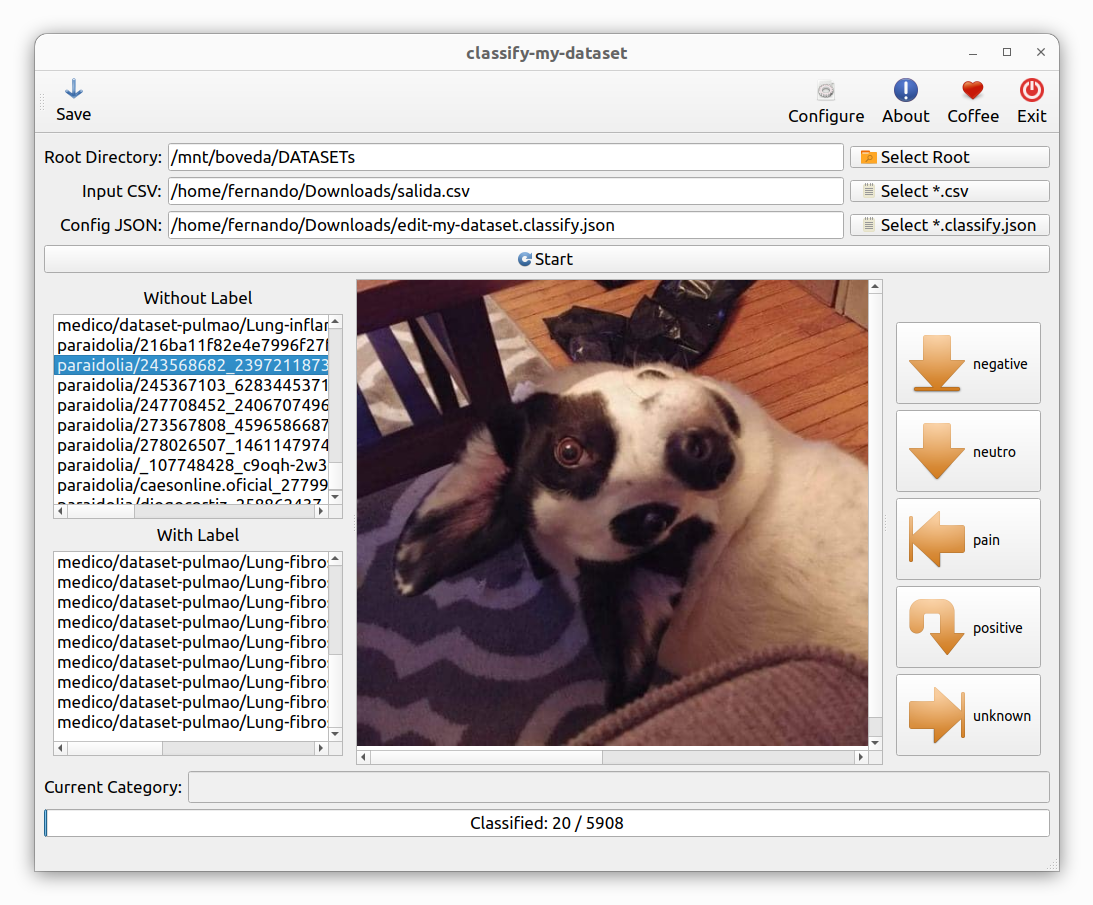
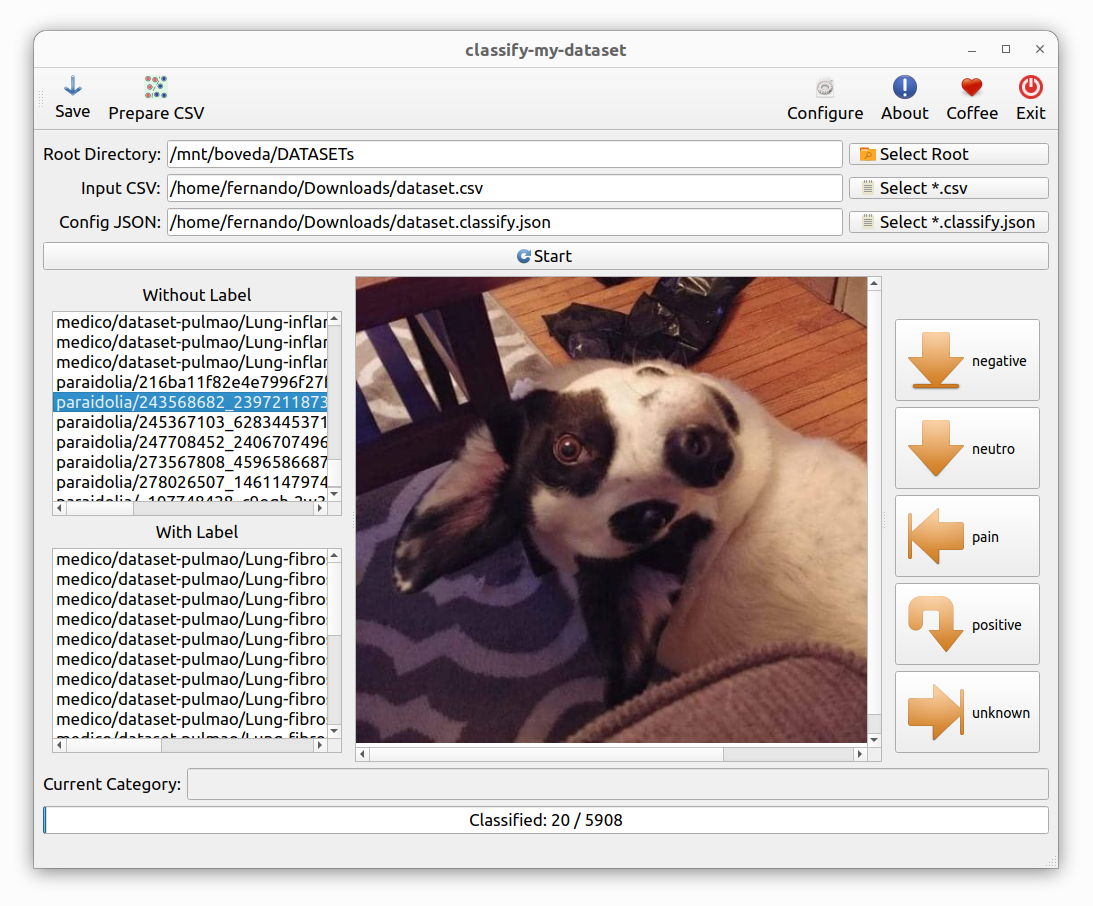
ordenando

diff --git a/src/classify_my_dataset/program.py b/src/classify_my_dataset/program.py
@@ -9,6 +9,7 @@ import subprocess
 from pathlib import Path
 from collections import OrderedDict
 import re
+import pandas as pd
 
 from PyQt5.QtWidgets import (
     QApplication, QMainWindow, QWidget, QVBoxLayout, QHBoxLayout, QSplitter,
@@ -37,6 +38,9 @@ CONFIG_PATH = os.path.join( os.path.expanduser("~"),
 DEFAULT_CONTENT={
     "toolbar_save": "Save",
     "toolbar_save_tooltip": "Save the CSV file with the current data",
+    "toolbar_save_shortcut": "Ctrl+S",
+    "toolbar_prepare": "Prepare CSV",
+    "toolbar_prepare_tooltip": "Open CSV generator",
     "toolbar_configure": "Configure",
     "toolbar_configure_tooltip": "Open the configure Json file of program GUI",
     "toolbar_about": "About",
@@ -64,6 +68,27 @@ DEFAULT_CONTENT={
     "json_label": "Config JSON:",
     "start_button": "Start",
     "start_button_tooltip": "Load dataset and start the classification process",
+    "listview_without_label": "Without Label",
+    "listview_with_label": "With Label",
+    "label_current_category": "Current Category:",
+    "progressbar_classified": "Classified: %v / %m",
+    "dialog_root_dir": "Select Root Directory",
+    "dialog_csv_path": "Select CSV File",
+    "dialog_json_path": "Select Config JSON",
+    "error": "Error",
+    "error_valid_csv": "Please select a valid CSV file!",
+    "error_valid_json": "Please select a valid Config JSON file!",
+    "error_valid_root": "Please select Root Directory!",
+    "error_load_json": "Failed to load JSON config:",
+    "error_load_csv": "Failed to read CSV:",
+    "staturbar_image": "Image:",
+    "warning": "Warning",
+    "warning_load_csv": "No data loaded!",
+    "dialog_save_csv": "Save CSV",
+    "exit": "Exit",
+    "success": "Success",
+    "success_csv": "CSV saved successfully!",
+    "exit_program": "Close the program?",
 }
 
 configure.verify_default_config(CONFIG_PATH,default_content=DEFAULT_CONTENT)
@@ -99,6 +124,9 @@ class MainWindow(QMainWindow):
         self.CurrentImg = None
         self.CurrentList = None
         self.scene = None
+        self.filepath_csv="filepath"
+        self.label_csv="label"
+        self.separator_csv=","
 
         self._create_toolbar()
         self.setup_ui()
@@ -111,21 +139,20 @@ class MainWindow(QMainWindow):
         self.action_save = QAction( QIcon(resource_path("icons","download.svg")),
                                     CONFIG["toolbar_save"], 
                                     self)
-        self.action_save.setShortcut("Ctrl+S")
+        self.action_save.setShortcut(CONFIG["toolbar_save_shortcut"])
         self.action_save.setToolTip(CONFIG["toolbar_save_tooltip"])
         self.action_save.triggered.connect(self.save_csv)
         self.toolbar.addAction(self.action_save)
 
-        #
+        # Prepare
         self.action_prepare_csv = QAction(
             QIcon(resource_path( "icons", "prepare-classification-dataset.svg" )),
-            "Prepare CSV",
+            CONFIG["toolbar_prepare"],
             self
         )
-        self.action_prepare_csv.setToolTip( "Open CSV generator" )
+        self.action_prepare_csv.setToolTip(CONFIG["toolbar_prepare_tooltip"])
         self.action_prepare_csv.triggered.connect( self.open_prepare_csv_window )
         self.toolbar.addAction( self.action_prepare_csv )
-
 
         # Adicionar o espaçador
         self.toolbar_spacer = QWidget()
@@ -259,9 +286,9 @@ class MainWindow(QMainWindow):
         self.list_unlabeled = QListWidget()
         self.list_labeled = QListWidget()
 
-        lbl_un = QLabel("Without Label")
+        lbl_un = QLabel(CONFIG["listview_without_label"])
         lbl_un.setAlignment(Qt.AlignCenter)
-        lbl_la = QLabel("With Label")
+        lbl_la = QLabel(CONFIG["listview_with_label"])
         lbl_la.setAlignment(Qt.AlignCenter)
 
         left_panel.addWidget(lbl_un)
@@ -290,8 +317,8 @@ class MainWindow(QMainWindow):
         # ==================== CURRENT CATEGORY ====================
 
         category_layout = QHBoxLayout()
-
-        self.lbl_current_category = QLabel("Current Category:")
+        
+        self.lbl_current_category = QLabel(CONFIG["label_current_category"])
 
         self.line_current_category = QLineEdit()
         self.line_current_category.setReadOnly(True)
@@ -309,9 +336,9 @@ class MainWindow(QMainWindow):
         main_layout.addLayout(category_layout)
 
         # ==================== PROGRESS BAR ====================
-
+        
         self.progressBar = QProgressBar()
-        self.progressBar.setFormat("Classified: %v / %m")
+        self.progressBar.setFormat(CONFIG["progressbar_classified"])
         main_layout.addWidget(self.progressBar)
 
         # =========================
@@ -386,17 +413,32 @@ class MainWindow(QMainWindow):
         
     # ====================== SELECTORS ======================
     def select_root_dir(self):
-        path = QFileDialog.getExistingDirectory(self, "Select Root Directory")
+        path = QFileDialog.getExistingDirectory(self, 
+                                                CONFIG["dialog_root_dir"])
         if path:
             self.line_dir.setText(path)
 
     def select_csv(self):
-        path, _ = QFileDialog.getOpenFileName(self, "Select CSV File", "", "CSV (*.csv)")
+        dir_path = self.line_dir.text()
+        if not os.path.exists(dir_path):
+            dir_path = ""
+        
+        path, _ = QFileDialog.getOpenFileName(  self, 
+                                                CONFIG["dialog_csv_path"], 
+                                                dir_path, 
+                                                "CSV (*.csv)")
         if path:
             self.line_csv.setText(path)
 
     def select_json(self):
-        path, _ = QFileDialog.getOpenFileName(self, "Select Config JSON", "", "JSON (*.classify.json)")
+        dir_path = self.line_dir.text()
+        if not os.path.exists(dir_path):
+            dir_path = ""
+        
+        path, _ = QFileDialog.getOpenFileName(  self, 
+                                                CONFIG["dialog_json_path"], 
+                                                dir_path, 
+                                                "JSON (*.classify.json)")
         if path:
             self.line_json.setText(path)
 
@@ -407,13 +449,13 @@ class MainWindow(QMainWindow):
         root_dir = self.line_dir.text().strip()
 
         if not csv_path or not os.path.exists(csv_path):
-            QMessageBox.warning(self, "Error", "Please select a valid CSV file!")
+            QMessageBox.warning(self, CONFIG["error"], CONFIG["error_valid_csv"])
             return
         if not json_path or not os.path.exists(json_path):
-            QMessageBox.warning(self, "Error", "Please select a valid Config JSON file!")
+            QMessageBox.warning(self, CONFIG["error"], CONFIG["error_valid_json"])
             return
         if not root_dir or not os.path.exists(root_dir):
-            QMessageBox.warning(self, "Error", "Please select Root Directory!")
+            QMessageBox.warning(self, CONFIG["error"], CONFIG["error_valid_root"])
             return
 
         self.Directory = QDir(root_dir)
@@ -557,18 +599,18 @@ class MainWindow(QMainWindow):
                 self.ButtonPtr.append(button)
 
         except Exception as e:
-
+            msg = CONFIG["error_load_json"]
             QMessageBox.critical(
                 self,
-                "Error",
-                f"Failed to load JSON config:\n{e}"
+                CONFIG["error"],
+                f"{msg}\n{e}"
             )
             
     def load_csv(self, csv_path):
         self.Map.clear()
         try:
-            import pandas as pd
-            df = pd.read_csv(csv_path, sep=",", dtype=str, keep_default_na=False)
+            
+            df = pd.read_csv(csv_path, sep=self.separator_csv, dtype=str, keep_default_na=False)
             df.columns = [col.strip() for col in df.columns]
             filepath_col = df.columns[0]
             label_col = df.columns[1] if len(df.columns) > 1 else "label"
@@ -578,7 +620,8 @@ class MainWindow(QMainWindow):
                 if fn:
                     self.Map[fn] = lbl
         except Exception as e:
-            QMessageBox.critical(self, "Error", f"Failed to read CSV:\n{e}")
+            msg = CONFIG["error_load_csv"]
+            QMessageBox.critical(self, CONFIG["error"], f"{msg}\n{e}")
             
     def populate_lists(self):
         self.list_unlabeled.clear()
@@ -616,8 +659,9 @@ class MainWindow(QMainWindow):
         self.show_image(filename)
     
     def show_image(self, filename):
+        msg = CONFIG["staturbar_image"]
         full_path = self.Directory.filePath(filename)
-        self.statusBar().showMessage(f"Image: {filename}", 4000)
+        self.statusBar().showMessage(f"{msg} {filename}", 4000)
         if self.scene:
             self.scene.clear()
         else:
@@ -761,23 +805,28 @@ class MainWindow(QMainWindow):
 
     def save_csv(self):
         if not self.Map:
-            QMessageBox.warning(self, "Warning", "No data loaded!")
+            QMessageBox.warning(self, 
+                                CONFIG["warning"], 
+                                CONFIG["warning_load_csv"])
             return
         csv_path = self.line_csv.text().strip()
         if not csv_path:
-            csv_path, _ = QFileDialog.getSaveFileName(self, "Save CSV", "", "CSV (*.csv)")
+            csv_path, _ = QFileDialog.getSaveFileName(  self, 
+                                                        CONFIG["dialog_save_csv"], 
+                                                        "", 
+                                                        "CSV (*.csv)")
         if csv_path:
             try:
                 with open(csv_path, "w", encoding="utf-8", newline="") as f:
-                    f.write("filepath,label\n")
+                    f.write(f"{self.filepath_csv}{self.separator_csv}{self.label_csv}\n")
                     for fn, lbl in self.Map.items():
-                        f.write(f"{fn},{lbl}\n")
-                QMessageBox.information(self, "Success", "CSV saved successfully!")
+                        f.write(f"{fn}{self.separator_csv}{lbl}\n")
+                QMessageBox.information(self, CONFIG["success"], CONFIG["success_csv"] )
             except Exception as e:
-                QMessageBox.critical(self, "Error", str(e))
+                QMessageBox.critical(self, CONFIG["error"], str(e))
 
     def closeEvent(self, event):
-        reply = QMessageBox.question(self, "Exit", "Close the program?",
+        reply = QMessageBox.question(self, CONFIG["exit"], CONFIG["exit_program"],
                                      QMessageBox.Yes | QMessageBox.No)
         if reply == QMessageBox.Yes:
             event.accept()
@@ -788,6 +837,7 @@ class MainWindow(QMainWindow):
 def main():
     signal.signal(signal.SIGINT, signal.SIG_DFL)
        
+    icon_path = resource_path("icons", "logo.svg")
     '''
     extras="" # "MimeType=text/vnd.graphviz;"
     
@@ -795,7 +845,8 @@ def main():
     create_desktop_menu()
     create_desktop_file(os.path.join("~",".local","share","applications"), 
                         program_name=about.__program_classify__,
-                        extras=extras)
+                        extras=extras,
+                        icon_path=icon_path)
     
     for n in range(len(sys.argv)):
         if sys.argv[n] == "--autostart":
@@ -804,7 +855,8 @@ def main():
             create_desktop_file(os.path.join("~",".config","autostart"), 
                                 overwrite=True, 
                                 program_name=about.__program_classify__,
-                                extras=extras)
+                                extras=extras,
+                                icon_path=icon_path)
             return
         if sys.argv[n] == "--applications":
             create_desktop_directory(overwrite = True)
@@ -812,7 +864,8 @@ def main():
             create_desktop_file(os.path.join("~",".local","share","applications"), 
                                 overwrite=True, 
                                 program_name=about.__program_classify__,
-                                extras=extras)
+                                extras=extras,
+                                icon_path=icon_path)
             return
     '''
     

diff --git a/src/classify_my_dataset/program_prepare.py b/src/classify_my_dataset/program_prepare.py
@@ -422,7 +422,7 @@ def main():
     create_desktop_directory()    
     create_desktop_menu()
     create_desktop_file(os.path.join("~",".local","share","applications"), 
-                        program_name=about.__program_classify__,
+                        program_name=about.__program_prepare__,
                         extras=extras,
                         icon_path=icon_path)
     
@@ -432,7 +432,7 @@ def main():
             create_desktop_menu(overwrite = True)
             create_desktop_file(os.path.join("~",".config","autostart"), 
                                 overwrite=True, 
-                                program_name=about.__program_classify__,
+                                program_name=about.__program_prepare__,
                                 extras=extras,
                                 icon_path=icon_path)
             return
@@ -441,7 +441,7 @@ def main():
             create_desktop_menu(overwrite = True)
             create_desktop_file(os.path.join("~",".local","share","applications"), 
                                 overwrite=True, 
-                                program_name=about.__program_classify__,
+                                program_name=about.__program_prepare__,
                                 extras=extras,
                                 icon_path=icon_path)
             return
@@ -450,7 +450,7 @@ def main():
     default_dir = sys.argv[1] if len(sys.argv) > 1 else ""
     
     app = QApplication(sys.argv)
-    app.setApplicationName(about.__program_classify__) 
+    app.setApplicationName(about.__program_prepare__) 
     
     window = CSVGeneratorWindow(default_dir)
     window.show()

diff --git a/src/toml_gen.py b/src/toml_gen.py
@@ -45,7 +45,8 @@ license = "GPL-3.0-only WITH Classpath-Exception-2.0 OR BSD-3-Clause"
 license-files = ["LICENSE"]
 keywords = ["writing", "translate"]
 dependencies = [
-    "PyQt5"
+    "PyQt5",
+    "pandas"
 ]
 
 [project.urls]